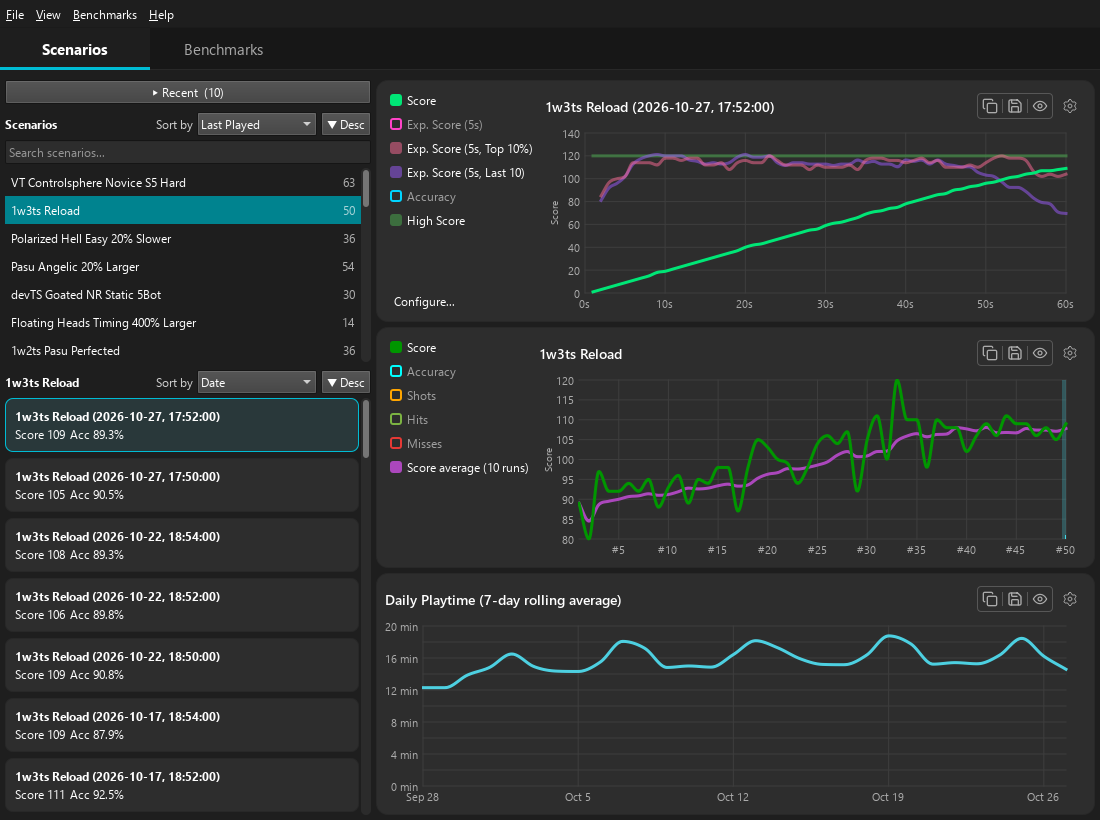
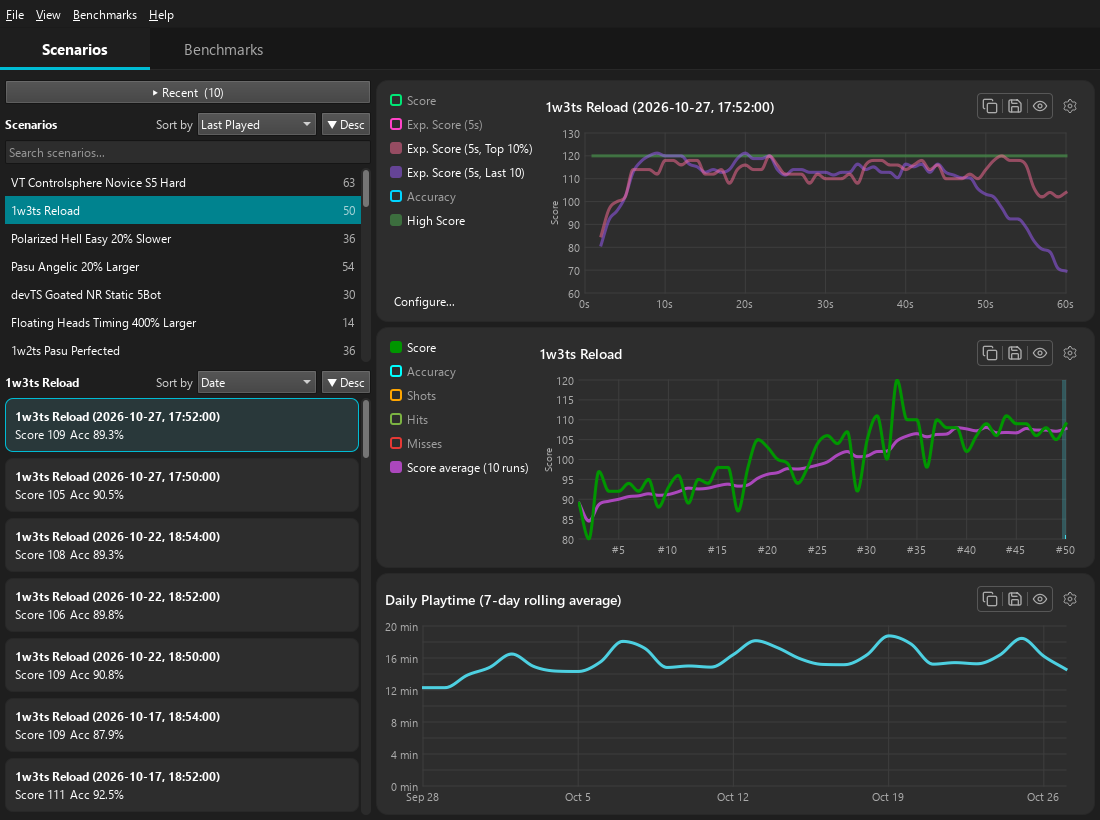
docs: hide cumulative score in README run graphs

diff --git a/changelog.d/2026-11-11-showcase-tour.md b/changelog.d/2026-11-11-showcase-tour.md
@@ -3,4 +3,4 @@ type: internal
 area: Build & packaging
 ---
 `showcase` driver tour and its fixture: `tools/driver/specs/showcase/profile.json` plays all 36 Viscose Intermediate S1 scenarios over three months from five representative scenario-specs (new: Polarized Hell, Pasu Angelic, devTS), rescaled to each scenario's own score units, with rows spread across the tiers. Each representative carries per-second data from a performance-spec measured from real runs; VT Controlsphere's last ten runs use the new `fading-finish` performance-spec, so the Last 10 line falls away from Top 10% late in the run. The tour runs headless at 1440x900 and shoots the Scenarios page, the run graph with only those two lines (plain and hovered), the benchmark grid at Control Tracking and at Flick Tech, the rank history and playtime cards, and the Settings dialog's run-graph page.
-Add three README candidate sections (`readme-reload`, `readme-controlsphere`, `readme-devts`), each starting with fresh settings: a 1100×820 overview with the selected run's cumulative score and without redundant history accuracy, a run-panel crop comparing top and recent runs, a 1100×684 benchmark-history view, and an 1800×520 benchmark overview framed to nine complete Control Tracking rows. Reload and devTS receive separate measured-shape variants whose final fifteen seconds lose shot rate, applied to ten recent hand-authored runs so their comparison crops have a visible late-run story. Move the pointer clear of the plot before plain captures, restore graph visibility before the Settings shot, and widen the benchmark grid captures to 1800px to separate PB/threshold labels. Every capture has its own coverage entry.
+Add three README candidate sections (`readme-reload`, `readme-controlsphere`, `readme-devts`), each starting with fresh settings: a 1100×820 overview without cumulative run Score or redundant history accuracy, a run-panel crop comparing top and recent runs, a 1100×684 benchmark-history view, and an 1800×520 benchmark overview framed to nine complete Control Tracking rows. Reload and devTS receive separate measured-shape variants whose final fifteen seconds lose shot rate, applied to ten recent hand-authored runs so their comparison crops have a visible late-run story. Move the pointer clear of the plot before plain captures, restore graph visibility before the Settings shot, and widen the benchmark grid captures to 1800px to separate PB/threshold labels. Every capture has its own coverage entry.

diff --git a/changelog.d/2026-11-13-readme-hide-run-score.md b/changelog.d/2026-11-13-readme-hide-run-score.md
@@ -1,0 +1,5 @@
+---
+type: changed
+area: Documentation
+---
+Hide cumulative Score in all three README candidate overview run graphs, keeping it hidden when entering the comparison crop. Its near-zero opening point stretched the shared score axis and flattened the projected-score comparisons. Regenerate the README overview from the showcase tour; scenario-history Score remains visible.
